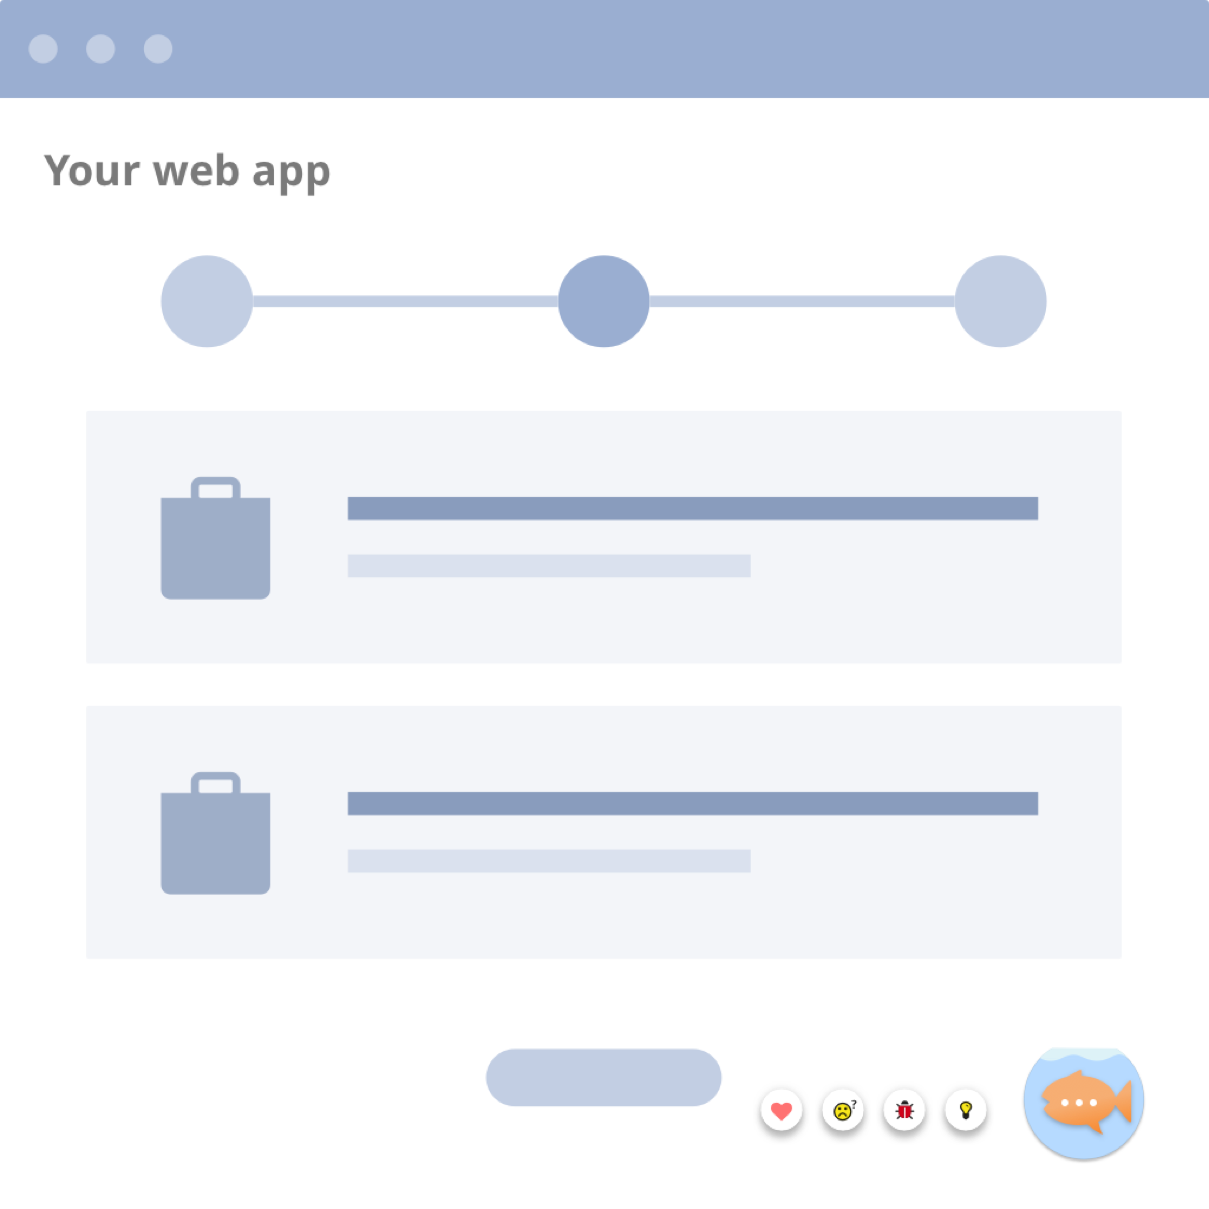
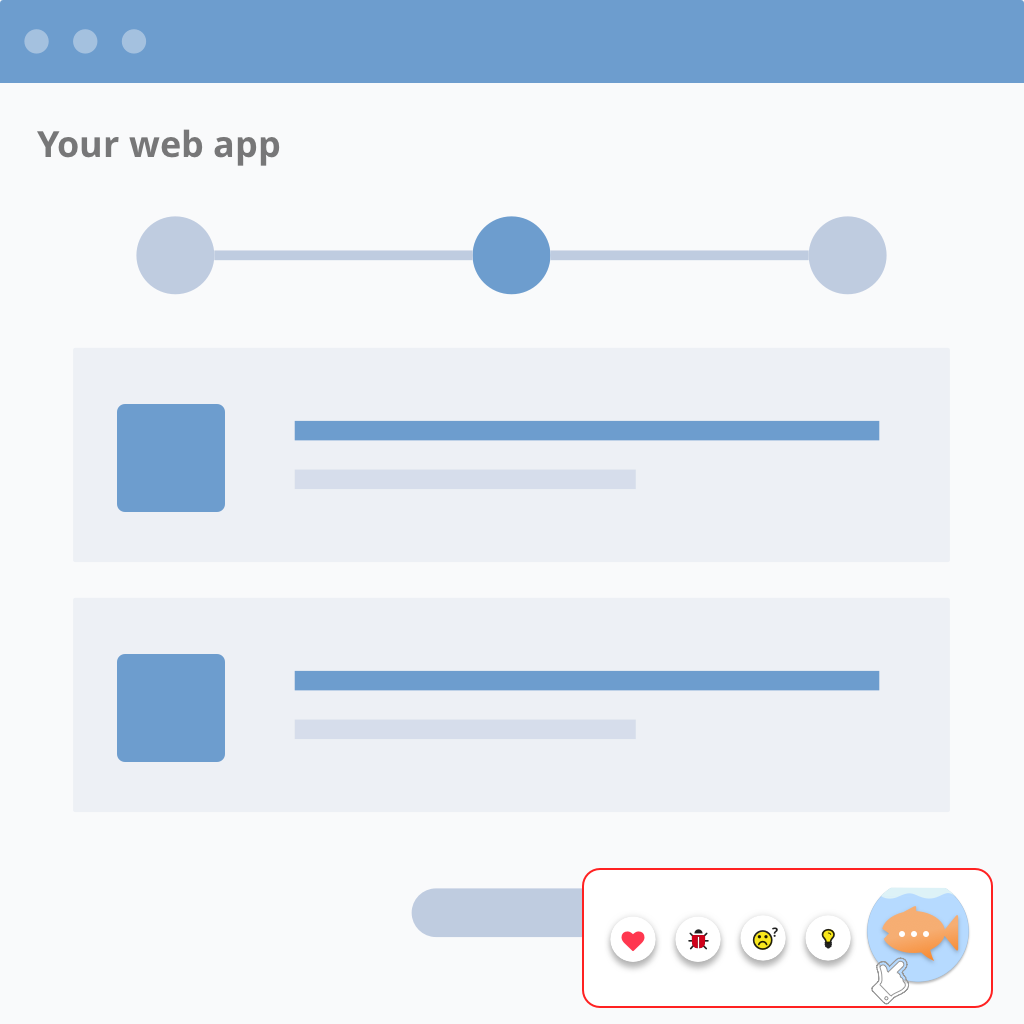
updated sample image and added bg gradients

diff --git a/client/app/main/main.scss b/client/app/main/main.scss
@@ -60,6 +60,10 @@ label {
     max-width: 360px;
   }
 }
+.features-row {
+  padding: 4em 0;
+  background: #FFF;
+}
 .graphic-block {
   background-image: linear-gradient(-180deg, #98BDE2 0%, #6A9CD0 100%);
   text-align: center;
@@ -99,15 +103,15 @@ label {
   }
 }
 .samples {
-  background: $palette--primary;
+  background-image: linear-gradient(-180deg, #98BDE2 0%, #6A9CD0 100%);
   padding: 4em 0;
-  color: white;
   h4 {
     padding: 1em;
   }
 }
 .or-block {
   padding: 1em 0;
+  color: #fff;
   p {
     padding: 0 2em;
   }
@@ -116,7 +120,7 @@ label {
   }
 }
 .cta {
-  background: $palette--accent;
+  background-image: linear-gradient(-180deg, #EAAF65 0%,  $palette--accent 100%);
   padding: 4em 0;
   &__divider {
     margin: 1em 2em;

diff --git a/client/app/main/main.html b/client/app/main/main.html
@@ -9,7 +9,7 @@
     <img src="assets/images/widget-graphic.png">
   </div>
 </div>
-<div layout="row">
+<div layout="row" class="features-row">
   <div flex="60" layout-padding>
     <h3>Beta Fish is a widget that tests your app's user experience</h3>
     <ul class="features-list">
